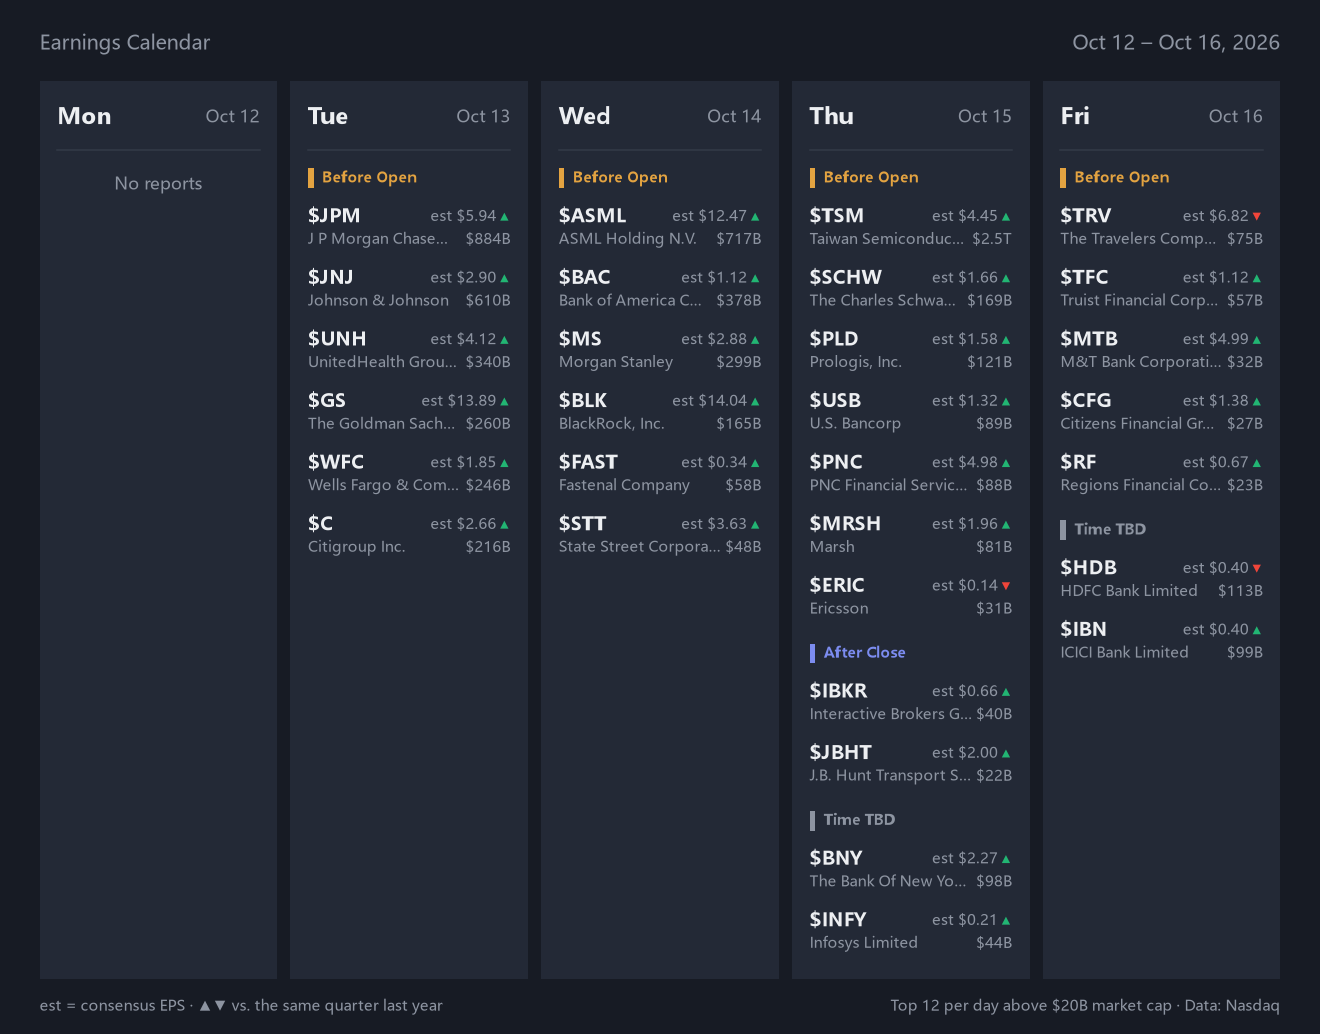
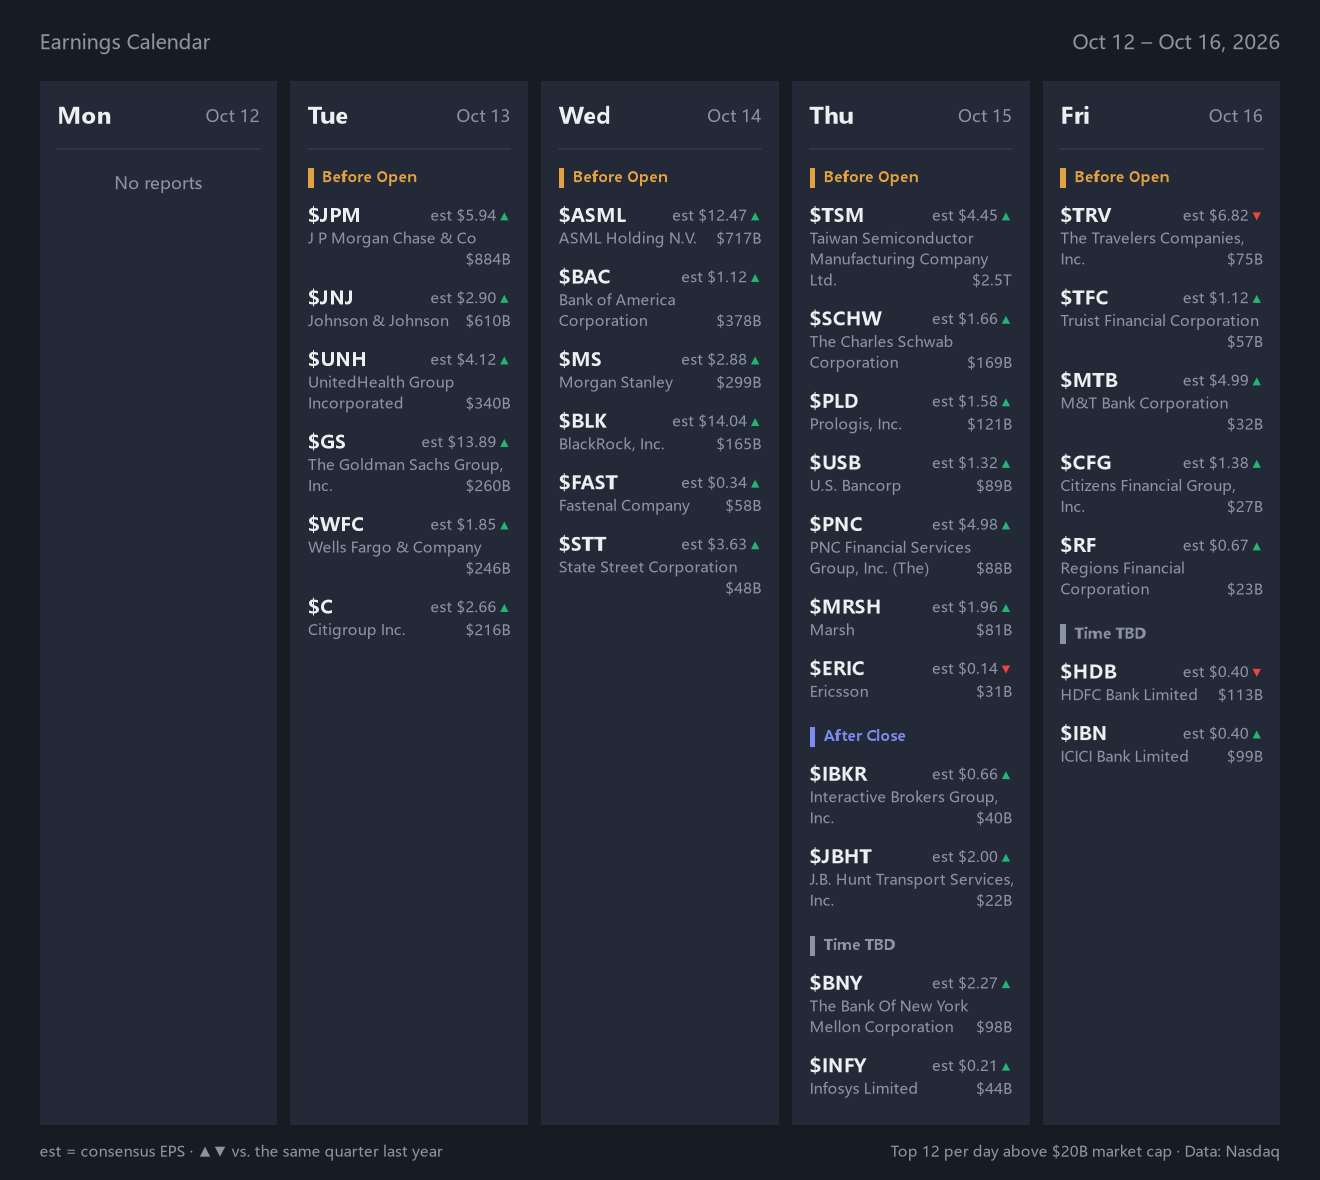
Calendars: always show the full company name
Names are wrapped onto as many lines as they need instead of being cut
with an ellipsis, so rows vary in height. In the earnings calendar the
market cap sits at the end of the last name line when there is room.

diff --git a/market_pulse/earnings_calendar.py b/market_pulse/earnings_calendar.py
@@ -12,7 +12,7 @@ from datetime import datetime, timedelta, timezone
 from market_pulse import nasdaq
 from market_pulse.discord import post_webhook
 from market_pulse.theme import (
-    AMBER, GREEN, INDIGO, MUTED, RED, RULE, Fonts, box, canvas, label, save, text_width,
+    AMBER, GREEN, INDIGO, MUTED, RED, RULE, Fonts, box, canvas, label, save, text_width, wrap,
 )
 
 WEBHOOK_ENV = "DISCORD_WEBHOOK_URL_EARNINGS"
@@ -42,7 +42,9 @@ COLUMN_GAP = 0.12
 TOP = 0.74                 # where the day columns start
 DAY_HEADER_HEIGHT = 0.66
 SESSION_HEIGHT = 0.40
-ROW_HEIGHT = 0.56
+ROW_HEIGHT = 0.56          # a company whose name fits on one line
+NAME_LINE_HEIGHT = 0.19    # each further line of a wrapped name
+COLUMN_INSET = 0.16
 MORE_HEIGHT = 0.40
 COLUMN_PADDING = 0.14
 FOOTER_HEIGHT = 0.50
@@ -125,9 +127,30 @@ def split_sessions(day_items):
     return sessions
 
 
+def layout_name(name, cap, name_font, cap_font, width):
+    """Wrap the company name to the column and place the market cap.
+
+    Returns (lines, cap_inline). The full name is always shown, on as many
+    lines as it needs. The cap sits at the right of the last line when there
+    is room, and otherwise gets a line of its own.
+    """
+    # Measured widths run slightly under the rendered ones, so wrap a little early.
+    lines = wrap(name, name_font, width - 0.08)
+    room = width - text_width(lines[-1], name_font) - 0.14
+    return lines, bool(text_width(cap, cap_font) <= room)
+
+
+def row_height(item):
+    lines, cap_inline = item.get("layout") or ([item["name"]], True)
+    return ROW_HEIGHT + (len(lines) - 1 + (0 if cap_inline else 1)) * NAME_LINE_HEIGHT
+
+
 def day_content_height(day_items, hidden=0):
     sessions = split_sessions(day_items)
-    height = sum(SESSION_HEIGHT + len(items) * ROW_HEIGHT for _, items in sessions) if sessions else ROW_HEIGHT
+    if sessions:
+        height = sum(SESSION_HEIGHT + sum(row_height(item) for item in items) for _, items in sessions)
+    else:
+        height = ROW_HEIGHT
     return height + (MORE_HEIGHT if hidden else 0)
 
 
@@ -150,16 +173,19 @@ def draw_company(ax, font, y, left, right, item):
             label(ax, right, upper + 0.005, arrow, arrow_font, GREEN if trend > 0 else RED, ha="right")
         label(ax, eps_right, upper, f"est {format_eps(item['eps_forecast'])}", font(10), MUTED, ha="right")
 
-    # Second line: company name, and the market cap the day is sorted by.
-    cap, cap_font = format_market_cap(item["market_cap"]), font(9.5)
-    label(ax, right, lower, cap, cap_font, MUTED, ha="right")
-    label(ax, left, lower, item["name"], font(9.5), MUTED,
-          max_width=right - left - text_width(cap, cap_font) - 0.14)
+    # Below: the full company name, wrapped, with the market cap the day is
+    # sorted by at the end of its last line (or on its own line if it won't fit).
+    lines, cap_inline = item.get("layout") or ([item["name"]], True)
+    for i, line in enumerate(lines):
+        label(ax, left, lower + i * NAME_LINE_HEIGHT, line, font(9.5), MUTED)
+    cap_line = len(lines) - 1 if cap_inline else len(lines)
+    label(ax, right, lower + cap_line * NAME_LINE_HEIGHT, format_market_cap(item["market_cap"]),
+          font(9.5), MUTED, ha="right")
 
 
 def draw_day(ax, font, x, width, height, day, date, day_items, hidden):
     box(ax, x, TOP, width, height)
-    inner_left, inner_right = x + 0.16, x + width - 0.16
+    inner_left, inner_right = x + COLUMN_INSET, x + width - COLUMN_INSET
 
     label(ax, inner_left, TOP + 0.33, day, font(15, bold=True))
     label(ax, inner_right, TOP + 0.33, date.strftime("%b %d"), font(11), MUTED, ha="right")
@@ -179,7 +205,7 @@ def draw_day(ax, font, x, width, height, day, date, day_items, hidden):
 
         for item in items:
             draw_company(ax, font, y, inner_left, inner_right, item)
-            y += ROW_HEIGHT
+            y += row_height(item)
 
     if hidden:
         label(ax, inner_left, y + MORE_HEIGHT / 2, f"+{hidden} more above {format_market_cap(MIN_MARKET_CAP)}",
@@ -193,6 +219,11 @@ def draw_card(grouped, monday, hidden=None, out_path=OUTPUT_FILE):
     hidden = hidden or {}
 
     font = Fonts()
+    width = (CARD_WIDTH - 2 * MARGIN - COLUMN_GAP * (len(DAY_LABELS) - 1)) / len(DAY_LABELS)
+    for day_items in grouped.values():
+        for item in day_items:
+            item["layout"] = layout_name(item["name"], format_market_cap(item["market_cap"]),
+                                         font(9.5), font(9.5), width - 2 * COLUMN_INSET)
     content_height = max(day_content_height(grouped[day], hidden.get(day, 0)) for day in DAY_LABELS)
     column_height = DAY_HEADER_HEIGHT + content_height + COLUMN_PADDING
     fig, ax = canvas(CARD_WIDTH, TOP + column_height + FOOTER_HEIGHT)
@@ -202,7 +233,6 @@ def draw_card(grouped, monday, hidden=None, out_path=OUTPUT_FILE):
     label(ax, CARD_WIDTH - MARGIN, 0.40, f"{monday.strftime('%b %d')} – {friday.strftime('%b %d, %Y')}",
           font(13), MUTED, ha="right")
 
-    width = (CARD_WIDTH - 2 * MARGIN - COLUMN_GAP * (len(DAY_LABELS) - 1)) / len(DAY_LABELS)
     for i, day in enumerate(DAY_LABELS):
         draw_day(ax, font, MARGIN + i * (width + COLUMN_GAP), width, column_height,
                  day, monday + timedelta(days=i), grouped[day], hidden.get(day, 0))

diff --git a/market_pulse/ipo_calendar.py b/market_pulse/ipo_calendar.py
@@ -13,7 +13,7 @@ from datetime import datetime, timezone
 from market_pulse import nasdaq
 from market_pulse.discord import post_webhook
 from market_pulse.earnings_calendar import get_next_week_range
-from market_pulse.theme import AMBER, MUTED, RULE, TEXT, Fonts, box, canvas, label, save, text_width
+from market_pulse.theme import AMBER, MUTED, RULE, TEXT, Fonts, box, canvas, label, save, text_width, wrap
 
 WEBHOOK_ENV = "DISCORD_WEBHOOK_URL_IPO"
 DRY_RUN = os.environ.get("DRY_RUN", "false").lower() in ("1", "true", "yes")
@@ -28,7 +28,8 @@ MARGIN = 0.36
 TOP = 0.74                 # where the column captions sit
 CAPTION_HEIGHT = 0.36
 DAY_HEIGHT = 0.52
-ROW_HEIGHT = 0.66
+ROW_HEIGHT = 0.66          # a deal whose company name fits on one line
+NAME_LINE_HEIGHT = 0.22    # each further line of a wrapped name
 ROW_GAP = 0.07
 FOOTER_HEIGHT = 0.50
 TICKER_X = MARGIN + 0.22
@@ -36,6 +37,7 @@ COMPANY_X = MARGIN + 1.50
 PRICE_X = 7.20
 SHARES_X = 9.05
 DEAL_RIGHT_X = CARD_WIDTH - MARGIN - 0.22
+COMPANY_WIDTH = PRICE_X - COMPANY_X - 0.25
 
 
 def to_number(value):
@@ -127,24 +129,31 @@ def group_by_date(listings):
     return groups
 
 
+def row_height(item):
+    return ROW_HEIGHT + (len(item.get("name_lines") or [""]) - 1) * NAME_LINE_HEIGHT
+
+
 def card_height(groups):
-    rows = sum(len(items) for _, items in groups)
-    return (TOP + CAPTION_HEIGHT + len(groups) * DAY_HEIGHT
-            + rows * (ROW_HEIGHT + ROW_GAP) + FOOTER_HEIGHT)
+    rows = sum(row_height(item) + ROW_GAP for _, items in groups for item in items)
+    return TOP + CAPTION_HEIGHT + len(groups) * DAY_HEIGHT + rows + FOOTER_HEIGHT
 
 
 def draw_row(ax, font, y, item):
-    box(ax, MARGIN, y, CARD_WIDTH - 2 * MARGIN, ROW_HEIGHT)
-    upper, lower = y + 0.24, y + 0.46
-    middle = y + ROW_HEIGHT / 2
-    company_width = PRICE_X - COMPANY_X - 0.25
+    height = row_height(item)
+    box(ax, MARGIN, y, CARD_WIDTH - 2 * MARGIN, height)
+    middle = y + height / 2
 
     ticker = f"${item['symbol']}" if item["symbol"] else "-"
     label(ax, TICKER_X, middle, ticker, font(13.5, bold=True), max_width=COMPANY_X - TICKER_X - 0.12)
-    label(ax, COMPANY_X, upper, item["name"] or "-", font(12), max_width=company_width)
+
+    # The full company name, wrapped onto as many lines as it needs, then the exchange.
+    lines = item.get("name_lines") or [item["name"] or "-"]
+    for i, line in enumerate(lines):
+        label(ax, COMPANY_X, y + 0.24 + i * NAME_LINE_HEIGHT, line, font(12))
+    lower = y + 0.46 + (len(lines) - 1) * NAME_LINE_HEIGHT
 
     exchange, exchange_font = item["exchange"] or "-", font(9.5)
-    label(ax, COMPANY_X, lower, exchange, exchange_font, MUTED, max_width=company_width)
+    label(ax, COMPANY_X, lower, exchange, exchange_font, MUTED, max_width=COMPANY_WIDTH)
     if item.get("spac"):
         label(ax, COMPANY_X + text_width(exchange, exchange_font) + 0.12, lower, "SPAC", font(8.5, bold=True), AMBER)
 
@@ -155,7 +164,10 @@ def draw_row(ax, font, y, item):
 
 def draw_card(listings, start, end, out_path=OUTPUT_FILE):
     font = Fonts()
-    groups = group_by_date(listings[:MAX_ROWS])
+    shown = listings[:MAX_ROWS]
+    for item in shown:
+        item["name_lines"] = wrap(item["name"] or "-", font(12), COMPANY_WIDTH - 0.1)
+    groups = group_by_date(shown)
     height = card_height(groups)
     fig, ax = canvas(CARD_WIDTH, height)
 
@@ -178,7 +190,7 @@ def draw_card(listings, start, end, out_path=OUTPUT_FILE):
         y += DAY_HEIGHT
         for item in items:
             draw_row(ax, font, y, item)
-            y += ROW_HEIGHT + ROW_GAP
+            y += row_height(item) + ROW_GAP
 
     footer_y = height - FOOTER_HEIGHT / 2
     label(ax, MARGIN, footer_y, "By expected pricing date · trading usually starts the next session", font(10), MUTED)

diff --git a/tests/test_earnings_calendar.py b/tests/test_earnings_calendar.py
@@ -2,7 +2,10 @@ import unittest
 from datetime import date, datetime, timezone
 from unittest import mock
 
+from matplotlib.font_manager import FontProperties
+
 from market_pulse import earnings_calendar as ec
+from market_pulse import theme
 
 MONDAY = date(2026, 10, 12)
 BILLION = 1_000_000_000
@@ -98,6 +101,34 @@ class LayoutTest(unittest.TestCase):
         self.assertAlmostEqual(ec.day_content_height([item("$A", "bmo"), item("$B", "amc")]),
                                2 * (ec.SESSION_HEIGHT + ec.ROW_HEIGHT))
         self.assertAlmostEqual(ec.day_content_height([item("$A", "bmo")], hidden=5), one + ec.MORE_HEIGHT)
+
+    def test_full_name_is_wrapped_never_cut(self):
+        font = FontProperties(size=9.5)
+        name = "Taiwan Semiconductor Manufacturing Company Limited"
+        lines, _ = ec.layout_name(name, "$2.5T", font, font, 1.84)
+        self.assertGreater(len(lines), 1)
+        self.assertEqual(" ".join(lines), name)
+        self.assertNotIn("…", "".join(lines))
+
+    def test_market_cap_shares_the_last_line_only_when_it_fits(self):
+        font = FontProperties(size=9.5)
+        self.assertEqual(ec.layout_name("Marsh", "$81B", font, font, 1.84), (["Marsh"], True))
+        # A name that fills its line leaves no room, so the cap moves below it.
+        full_line = "W"
+        while theme.text_width(full_line + "W", font) <= 1.84 - 0.08:  # the wrap margin
+            full_line += "W"
+        self.assertEqual(ec.layout_name(full_line, "$40B", font, font, 1.84), ([full_line], False))
+
+    def test_row_height_follows_the_layout(self):
+        short = item("$A", "bmo", layout=(["One line"], True))
+        wrapped = item("$B", "bmo", layout=(["First line", "second line"], True))
+        cap_below = item("$C", "bmo", layout=(["Fills the whole line"], False))
+        self.assertEqual(ec.row_height(item("$D", "bmo")), ec.ROW_HEIGHT)
+        self.assertEqual(ec.row_height(short), ec.ROW_HEIGHT)
+        self.assertAlmostEqual(ec.row_height(wrapped), ec.ROW_HEIGHT + ec.NAME_LINE_HEIGHT)
+        self.assertAlmostEqual(ec.row_height(cap_below), ec.ROW_HEIGHT + ec.NAME_LINE_HEIGHT)
+        self.assertAlmostEqual(ec.day_content_height([short, wrapped]),
+                               ec.SESSION_HEIGHT + 2 * ec.ROW_HEIGHT + ec.NAME_LINE_HEIGHT)
 
     def test_nothing_is_drawn_for_an_empty_week(self):
         self.assertFalse(ec.draw_card({day: [] for day in ec.DAY_LABELS}, MONDAY))

diff --git a/tests/test_theme.py b/tests/test_theme.py
@@ -1,0 +1,45 @@
+import unittest
+
+from matplotlib.font_manager import FontProperties
+
+from market_pulse import theme
+
+FONT = FontProperties(size=10)
+
+
+class WrapTest(unittest.TestCase):
+    def test_short_text_stays_on_one_line(self):
+        self.assertEqual(theme.wrap("Marsh", FONT, 2.0), ["Marsh"])
+
+    def test_long_text_breaks_at_spaces_and_loses_nothing(self):
+        text = "Taiwan Semiconductor Manufacturing Company Limited"
+        lines = theme.wrap(text, FONT, 1.8)
+        self.assertGreater(len(lines), 1)
+        self.assertEqual(" ".join(lines), text)
+        self.assertTrue(all(theme.text_width(line, FONT) <= 1.8 for line in lines))
+
+    def test_a_word_wider_than_the_line_is_split(self):
+        word = "Supercalifragilisticexpialidocious"
+        lines = theme.wrap(word, FONT, 0.8)
+        self.assertGreater(len(lines), 1)
+        self.assertEqual("".join(lines), word)
+
+    def test_empty_text(self):
+        self.assertEqual(theme.wrap("", FONT, 1.0), [""])
+
+
+class EllipsizeTest(unittest.TestCase):
+    def test_fits_unchanged_or_shortened_with_an_ellipsis(self):
+        self.assertEqual(theme.ellipsize("NYSE", FONT, 2.0), "NYSE")
+        shortened = theme.ellipsize("A very long exchange name indeed", FONT, 1.0)
+        self.assertTrue(shortened.endswith("…"))
+        self.assertLessEqual(theme.text_width(shortened, FONT), 1.0)
+
+
+class PlainTest(unittest.TestCase):
+    def test_dollar_signs_are_escaped(self):
+        self.assertEqual(theme.plain("$3,960 – $5,318"), "\\$3,960 – \\$5,318")
+
+
+if __name__ == "__main__":
+    unittest.main()

diff --git a/market_pulse/theme.py b/market_pulse/theme.py
@@ -89,6 +89,29 @@ def ellipsize(text, font_properties, max_width):
     return text.rstrip() + "…"
 
 
+def wrap(text, font_properties, max_width):
+    """Break the text into lines no wider than max_width inches, at spaces where possible."""
+    lines, current = [], ""
+    for word in str(text).split():
+        candidate = f"{current} {word}" if current else word
+        if text_width(candidate, font_properties) <= max_width:
+            current = candidate
+            continue
+        if current:
+            lines.append(current)
+        # A single word wider than the line is split mid-word rather than overflowing.
+        while text_width(word, font_properties) > max_width and len(word) > 1:
+            cut = len(word) - 1
+            while cut > 1 and text_width(word[:cut], font_properties) > max_width:
+                cut -= 1
+            lines.append(word[:cut])
+            word = word[cut:]
+        current = word
+    if current:
+        lines.append(current)
+    return lines or [""]
+
+
 def label(ax, x, y, text, font_properties, color=TEXT, ha="left", max_width=None):
     """Draw one line of text, vertically centred on y, optionally ellipsized."""
     if max_width is not None:

diff --git a/tests/test_ipo_calendar.py b/tests/test_ipo_calendar.py
@@ -109,6 +109,14 @@ class LayoutTest(unittest.TestCase):
         extra = ic.card_height(two_days) - ic.card_height(one_day)
         self.assertAlmostEqual(extra, ic.DAY_HEIGHT + ic.ROW_HEIGHT + ic.ROW_GAP)
 
+    def test_a_wrapped_company_name_makes_its_row_taller(self):
+        plain = self.listings()[0]
+        wrapped = {**plain, "name_lines": ["A Very Long Company Name Holdings International", "Group Limited Partnership"]}
+        self.assertEqual(ic.row_height(plain), ic.ROW_HEIGHT)
+        self.assertAlmostEqual(ic.row_height(wrapped), ic.ROW_HEIGHT + ic.NAME_LINE_HEIGHT)
+        groups = [(plain["date"], [wrapped])]
+        self.assertAlmostEqual(ic.card_height(groups) - ic.card_height([(plain["date"], [plain])]), ic.NAME_LINE_HEIGHT)
+
 
 class EmptyCalendarTest(unittest.TestCase):
     def run_main(self, dry_run):

diff --git a/README.md b/README.md
@@ -182,6 +182,7 @@ Only `truth_social` uses `hashes` and `etag`. `seen_feargreed.json` instead stor
 - Data comes from the public API behind nasdaq.com's earnings calendar: five requests a week, no key, and market cap, reporting time and consensus EPS in the same response.
 - Shows the 12 largest companies per day above a USD 20 billion market cap. In a quiet week the floor is what limits the list; at the peak of earnings season, when more than 80 companies above the floor can report on a single day, the per-day limit does, and a line under the column says how many more were left out.
 - Each company shows its consensus EPS estimate with an arrow for whether that is above or below the same quarter last year.
+- Company names are always shown in full, wrapped onto a second or third line when needed, so rows vary in height.
 - One column per weekday in the shared dark theme. Each day is split into Before Open and After Close, largest market cap first, with the cap shown next to every ticker.
 
 ### Market close
@@ -202,7 +203,7 @@ Only `truth_social` uses `hashes` and `etag`. `seen_feargreed.json` instead stor
 - Covers today through next week's Friday. IPO dates are usually fixed only a week or so ahead, so a next-week-only window would often be empty.
 - When nothing is scheduled it posts a one-line note saying so, so that an empty week cannot be mistaken for a failed run.
 - Shows the deals on Nasdaq's upcoming IPO list, by expected pricing date; filed-only and withdrawn deals are not on that list. Blank-check companies are tagged SPAC.
-- One row per deal in the shared dark theme, grouped under its date and sorted by deal size, capped at 25 rows. Each row shows the ticker, company, exchange, price range, shares offered and deal size.
+- One row per deal in the shared dark theme, grouped under its date and sorted by deal size, capped at 25 rows. Each row shows the ticker, the full company name (wrapped if long), exchange, price range, shares offered and deal size.
 - Shares the earnings calendar channel unless `DISCORD_WEBHOOK_URL_IPO` is set.
 
 ### Backfill
